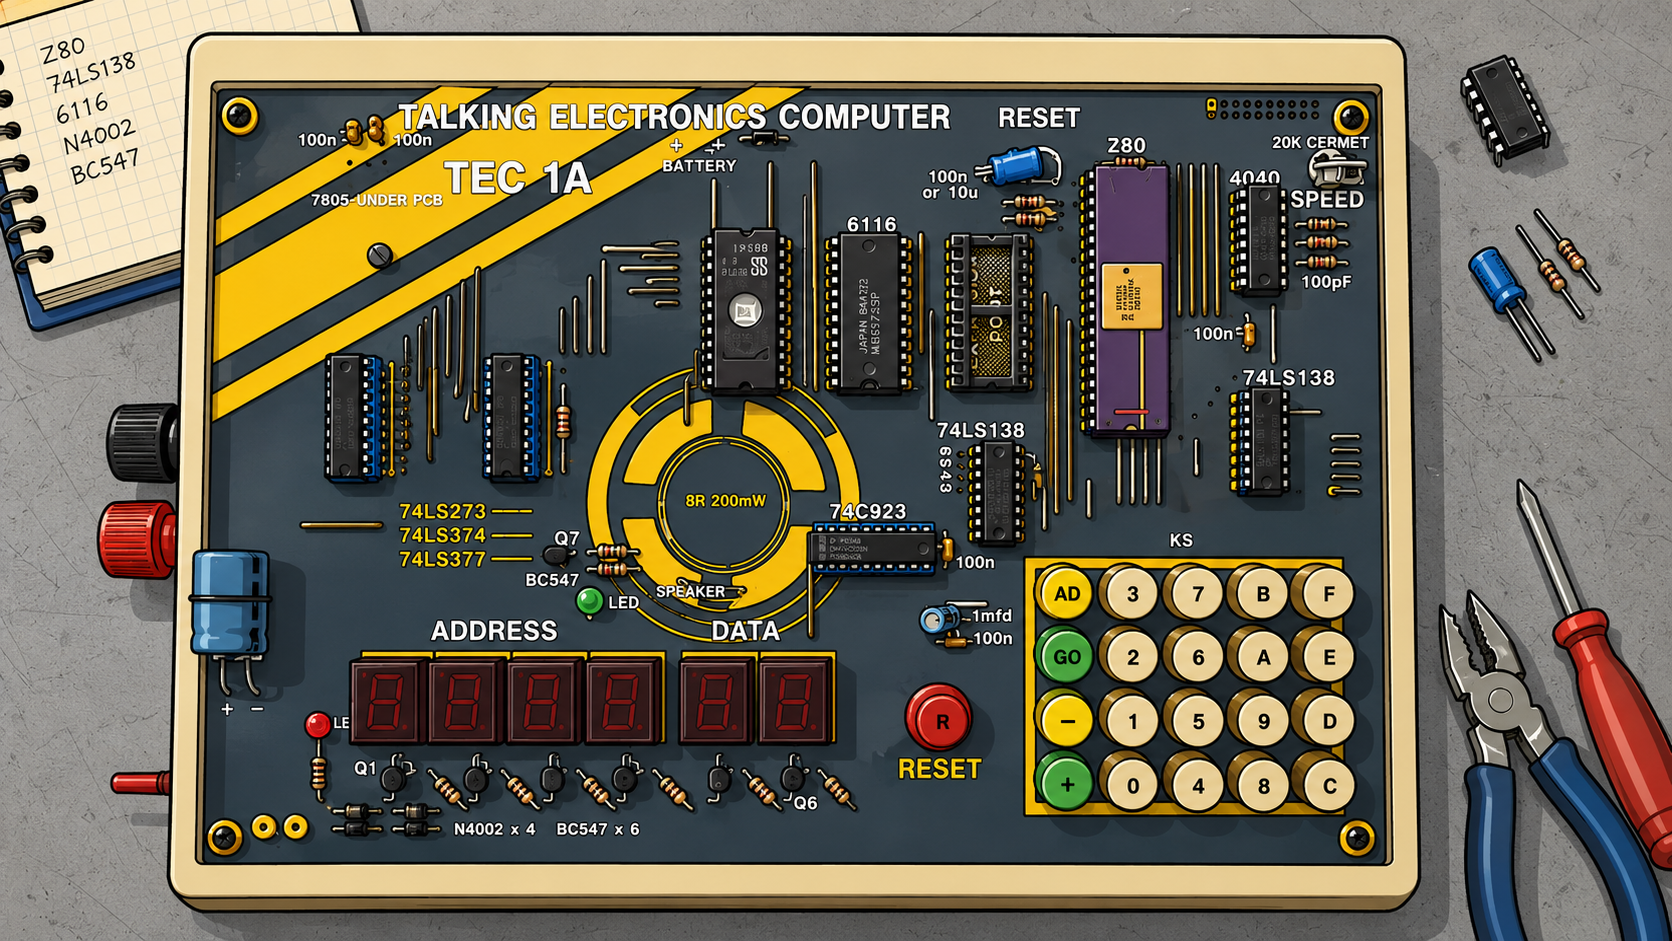
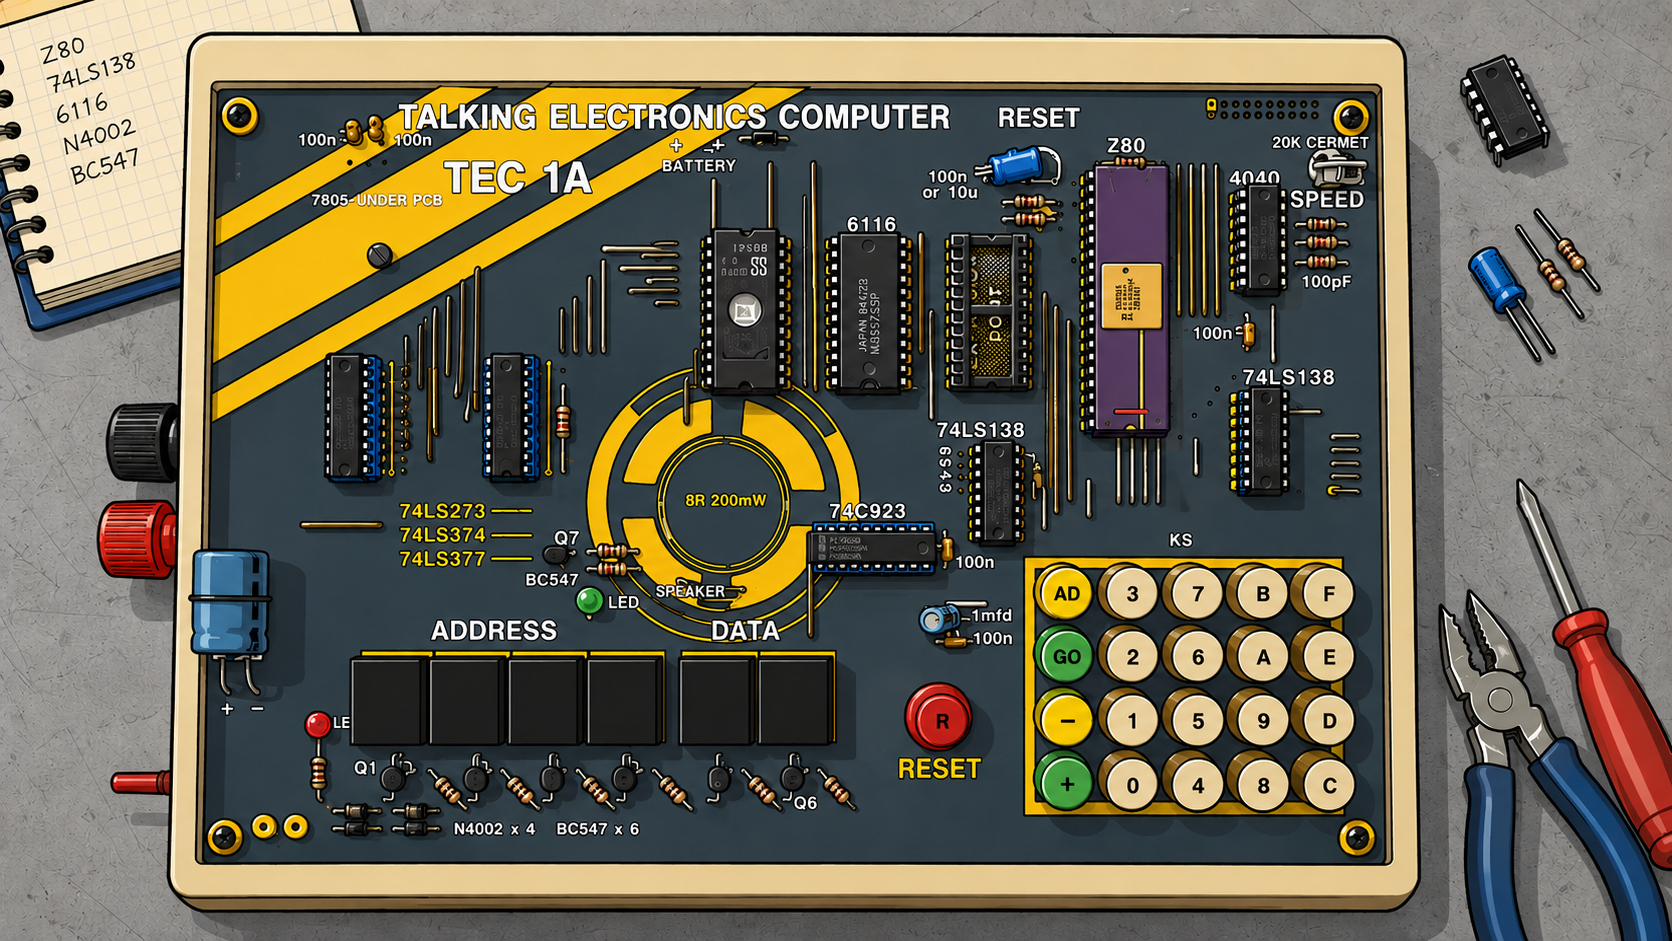
Display properly aligned with background image. Removed the unlit segment visibility.

diff --git a/cmd/tec1/display.go b/cmd/tec1/display.go
@@ -103,7 +103,6 @@ type Display struct {
 	active         int             // active digit
 	xBase, yBase   float32         // xy position of display on screen
 	xScale, yScale float32         // xy size of digit
-	xGap           float32         // gap between digits 0..3 (address) and 4..5 (value)
 	last           time.Time       // time for last digit switch
 	interval       time.Duration   // time between digit switches
 	texture        *ebiten.Image
@@ -116,17 +115,19 @@ func newDisplay() *Display {
 		texture:  ebiten.NewImage(1, 1),
 		xScale:   digitSize,
 		yScale:   xyScale(digitSize),
-		xGap:     1.5 * digitSize,
 		interval: 0 * time.Millisecond,
 	}
 	d.texture.Fill(color.White)
 	return d
 }
 
+const xGap0 = float32(24.0)
+const xGap1 = float32(14.0)
+
 func (d *Display) xMap(digit int, x float32) float32 {
-	var gap float32
+	gap := float32(digit) * xGap0
 	if digit >= 4 {
-		gap = d.xGap
+		gap += xGap1
 	}
 	return d.xBase + gap + d.xScale*(float32(digit)+x)
 }

diff --git a/cmd/tec1/main.go b/cmd/tec1/main.go
@@ -172,10 +172,10 @@ func main() {
 	d.set(1, 0x79+0x80)
 	d.set(2, 0x77+0x80)
 	d.set(3, 0x5e+0x80)
-	d.set(4, 0x7f)
-	d.set(5, 0x7f)
+	d.set(4, 0x7f+0x80)
+	d.set(5, 0x7f+0x80)
 
-	d.setBase(355, 665)
+	d.setBase(362, 665)
 
 	g, err := newGame(d)
 	if err != nil {